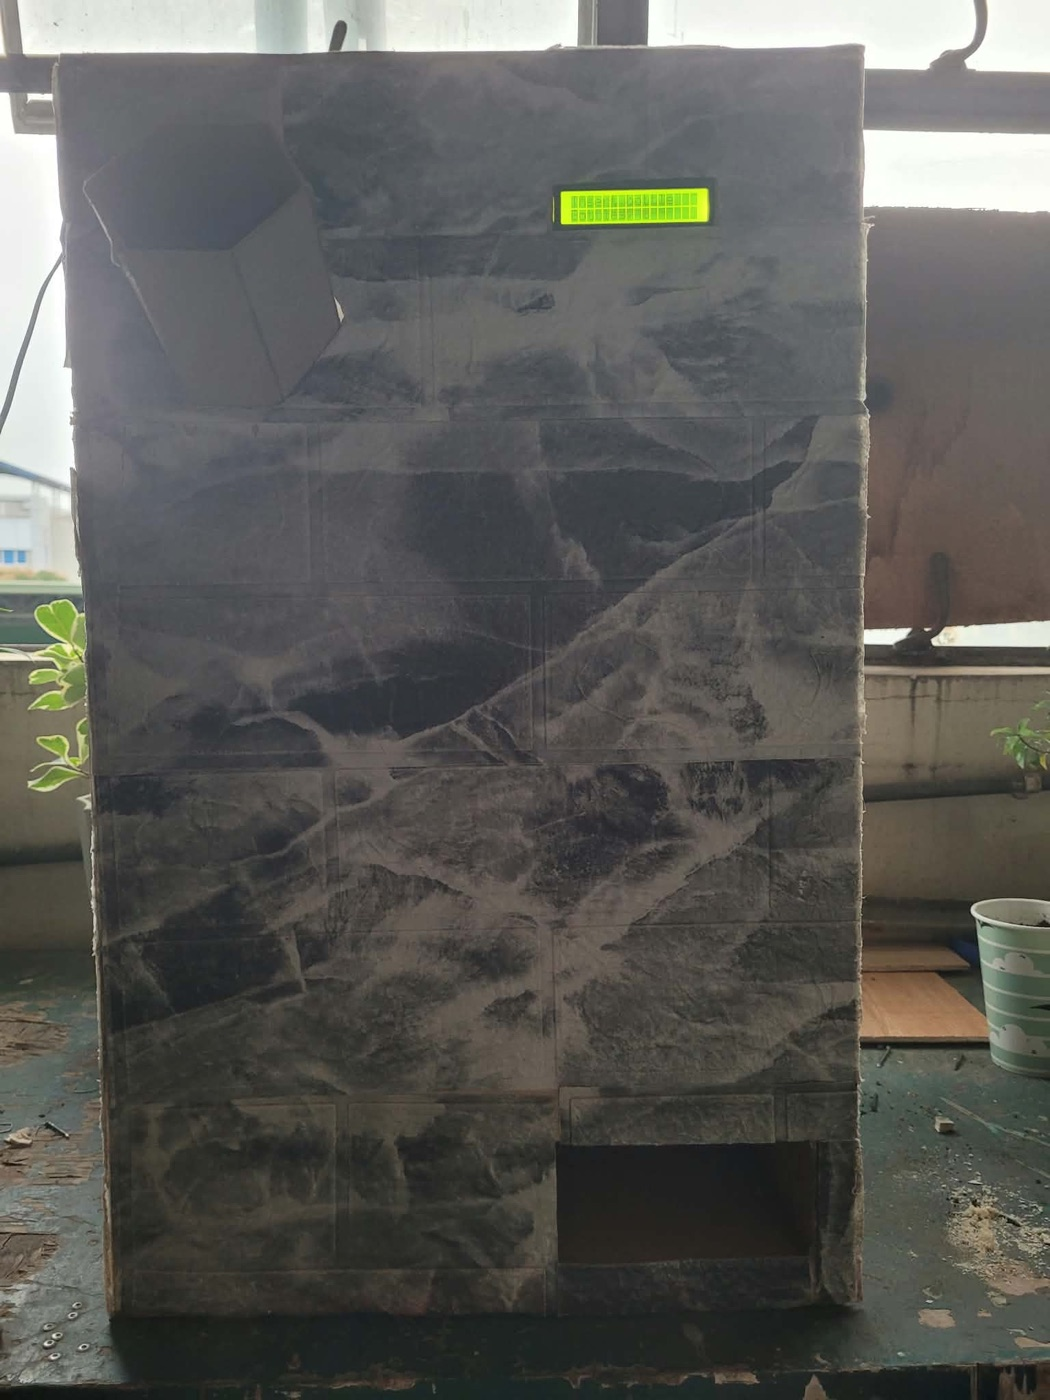
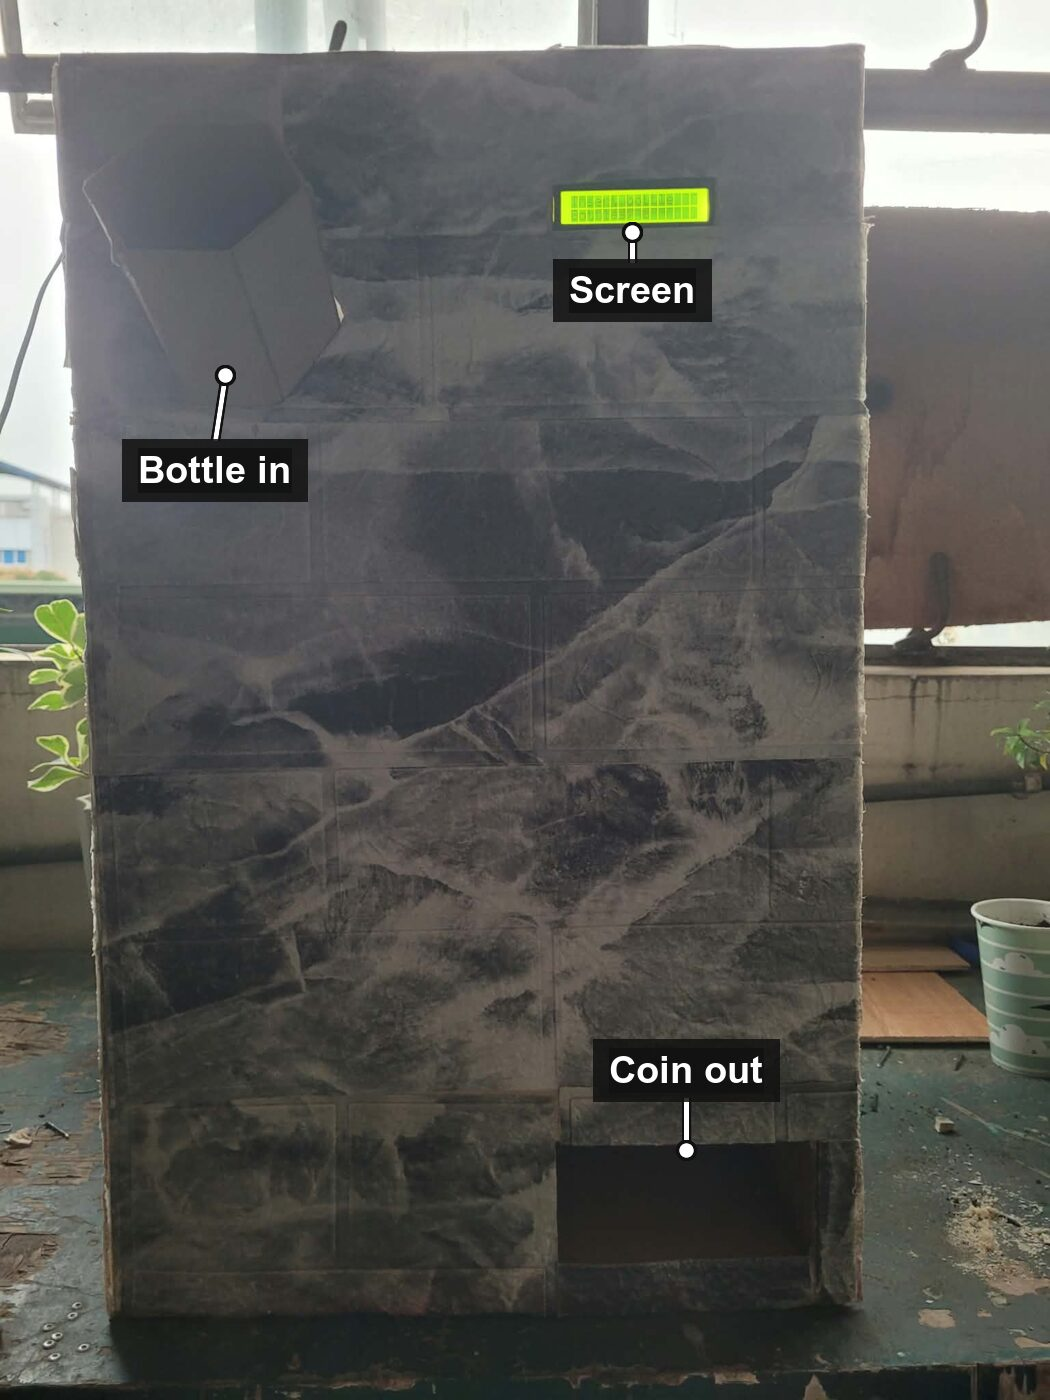
README: label the bottle chute, screen and coin opening on the front photo

Changed region(s): [[0.0914, 0.2457, 0.3048, 0.3686], [0.5486, 0.7371, 0.7619, 0.8293], [0.5181, 0.1536, 0.701, 0.2457]]

diff --git a/README.md b/README.md
@@ -4,7 +4,7 @@ An Arduino machine that gives a coin for every plastic bottle. A TCRT5000 sensor
 
 | Front | Inside |
 |:---:|:---:|
-| <img src="images/front.jpg" alt="Front of the bottle recycler with the LCD lit" width="360"> | <img src="images/inside.jpg" alt="Inside the bottle recycler: Arduino Uno, breadboard and wiring" width="480"> |
+| <img src="images/front.jpg" alt="Front of the bottle recycler: bottle chute at the top left, screen at the top right, coin opening at the bottom right" width="360"> | <img src="images/inside.jpg" alt="Inside the bottle recycler: Arduino Uno, breadboard and wiring" width="480"> |
 
 ## How it works
 
